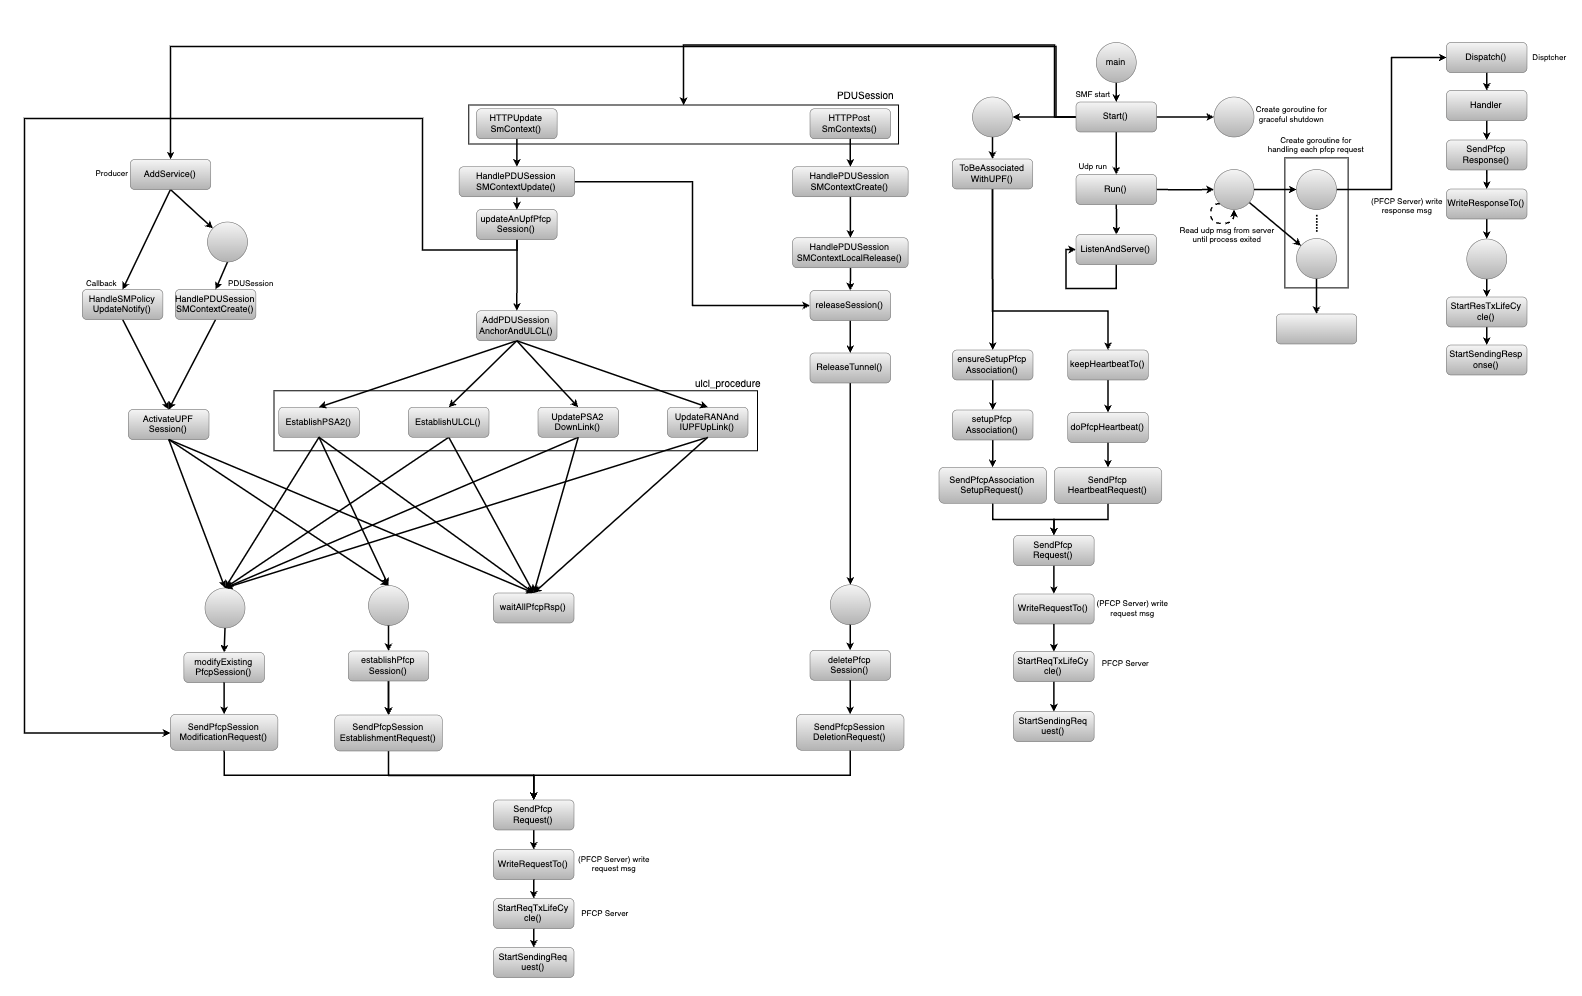
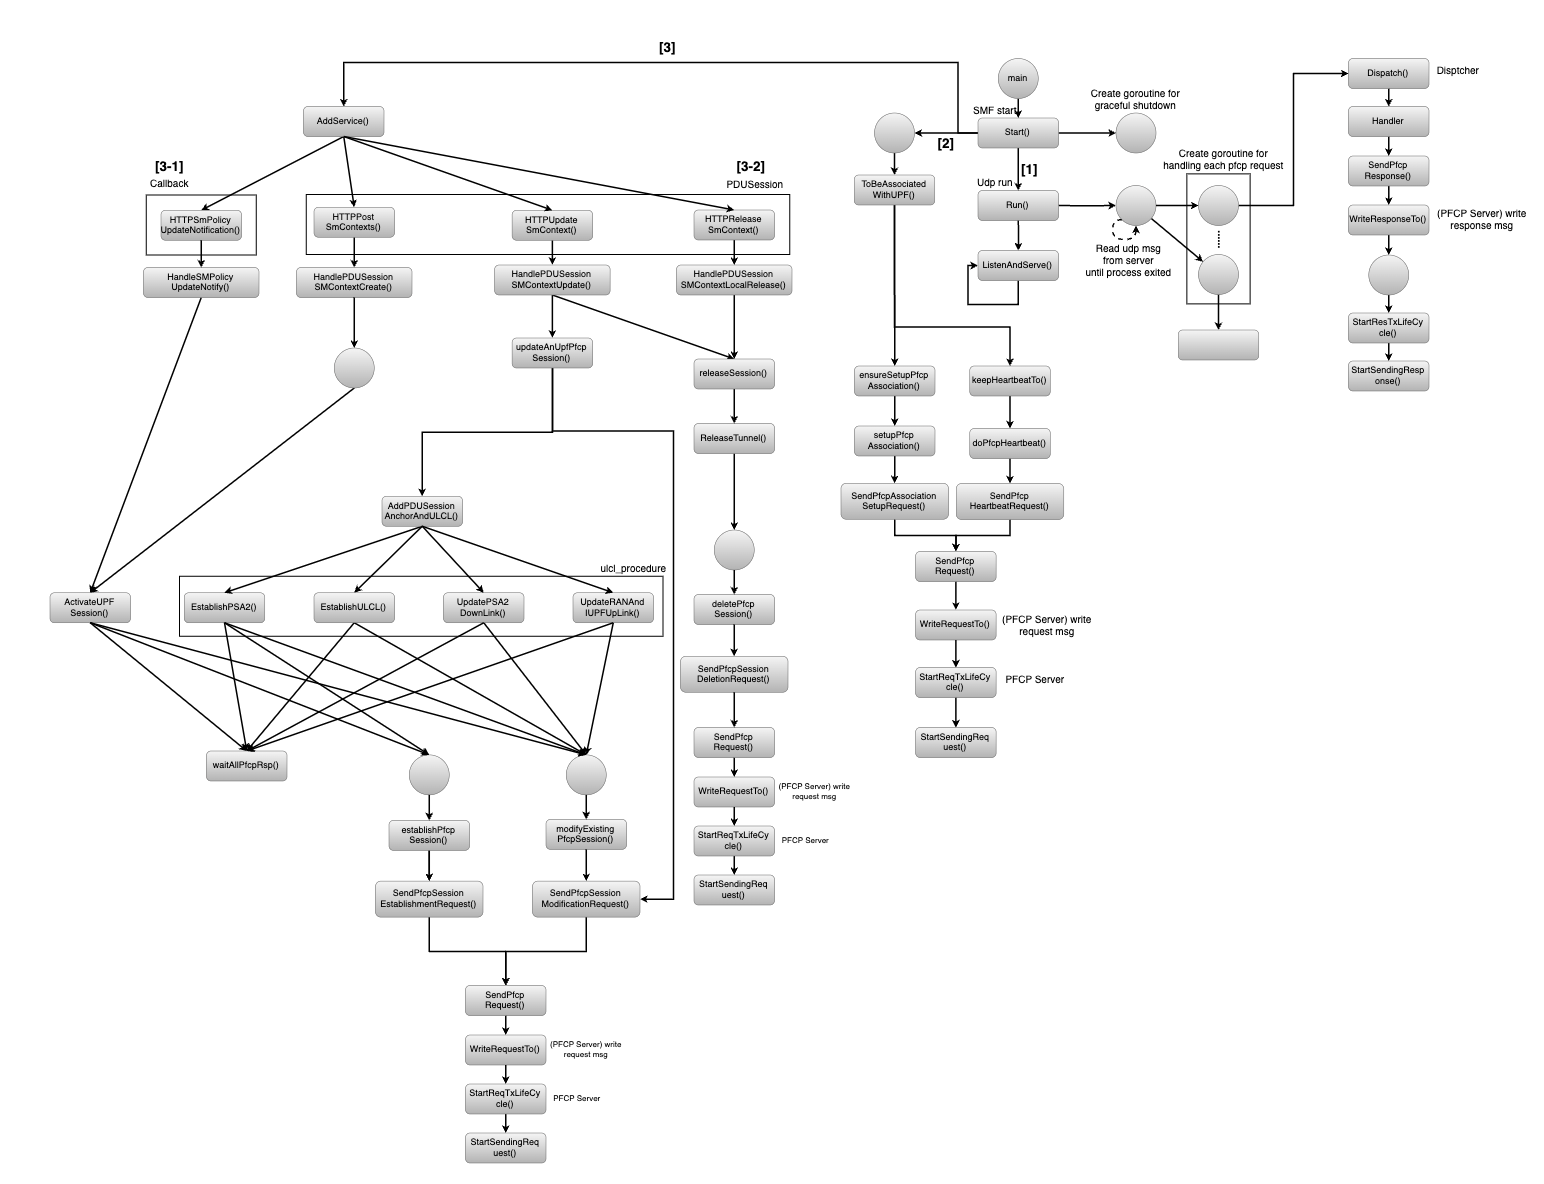
Add Description and update diagram

Changed region(s): [[0.0311, 0.0311, 0.9948, 0.996], [0.4041, 0.0934, 0.4352, 0.1245]]

diff --git a/docs/blog/20240209/20240209.md b/docs/blog/20240209/20240209.md
@@ -12,7 +12,34 @@ The main focus of this blog is to share the software architecture diagram detail
 ### <u>Description</u>
 ![SMFPfcp_Software_Architecture](./SMFPfcp_Software_Architecture.png)
 
-### <u>Conclusion</u>
+When SMF is started, several software functionalities related to PFCP are activated. I mainly categorize them into three major directions: UDP (User Datagram Protocol) Run, N4 Interface Association, and Service-based interface handler (including PDU Session and Callback).
+
+[1] **UDP Run :** 
+
+   1. Read UDP msg from server until process exited :
+      - When the PFCP Server receives a PFCP Request from the User Plane, the Server will hand over this message to the Dispatcher for processing, with the aim of generating the corresponding Response.
+
+   2. Listen and Serve : 
+      - Once the PFCP Server receives a PFCP Request from the Control Plane or User Plane, it will be monitored via ListenAndServe function. Depending on the circumstances, it will determine whether to pass it to the Dispatcher or the SMF’s sbi for handling.
+
+[2] **N4 Interface Association :** 
+
+   - The N4 interface association is used to maintain and verify the connectivity between the SMF and UPF. When either the SMF or UPF is first initialized, typically one of them will initiate an N4 association setup request. Subsequently, the SMF will initiate a Heartbeat Procedure to confirm whether the UPF is operational. If the UPF has not established an association with the SMF, the SMF will not process any PFCP Requests related to this UPF.
+
+[3] **Service-based interface handler :**
+
+   1. [3-1] ***Callback :***
+      - The SMF (Subscriber) requests the establishment of an SM Policy association with the PCF (SBI). When subscription conditions are met (such as policy updates), the PCF will actively notify the SMF. Upon receiving this information, the SMF will also update the UPF according to the new policy.
+
+   2. [3-2] ***PDU Session :***
+      - (1) **Release** : When the Service Management Function (SMF) receives a PDU Session Release SMContext Request from the Access and Mobility Management Function (Possible scenarios include: AMF changes, an invalid SUPI from the UE, or the UE registering repetitively with the same AMF, etc.), The SMF will send an PFCP Session Deletion Request towards the User Plane Function (UPF) to release resources associated with this session.
+
+      - (2) **Update** : When the Service Management Function (SMF) receives a PDU Session Update SMContext Request from the Access and Mobility Management Function for updating N3 tunnel information (Possible scenarios include: EPS to 5GS handover [TS23.502](4.11.1.2.2.2), etc.), The SMF will send an PFCP Session Modification Request towards the User Plane Function (UPF) to update resources associated with this session.
+
+      - (3) **Post** : When the Service Management Function (SMF) receives a PDU Session Create SMContext Request from the Access and Mobility Management Function (Possible scenarios include: UE Requested PDU Session Establishment), The SMF will send an PFCP Session Establishment Request towards the User Plane Function (UPF). If the SMF received Nsmf_PDUSession_CreateSMContext Request and the SMF is able to process the PDU Session establishment request, the SMF creates an SM context and responds to the AMF by providing an SM Context Identifier. [TS23.502](4.3.2.2)
+
+   3. [3-3] ***ULCL Procedure*** : 
+      - The insertion of ULCL (Uplink Control Channel) in 5G networks serves the purpose of facilitating the transmission of control information during uplink data transfer. ULCL enables the network to transmit control signals and indications during uplink transmission, effectively managing and controlling the allocation and scheduling of wireless resources. This includes transmitting scheduling information, establishing and releasing connections, modulation and coding information, among others, to ensure efficient control and management of uplink data transmission from user equipment.
 
 ## Reference
 
